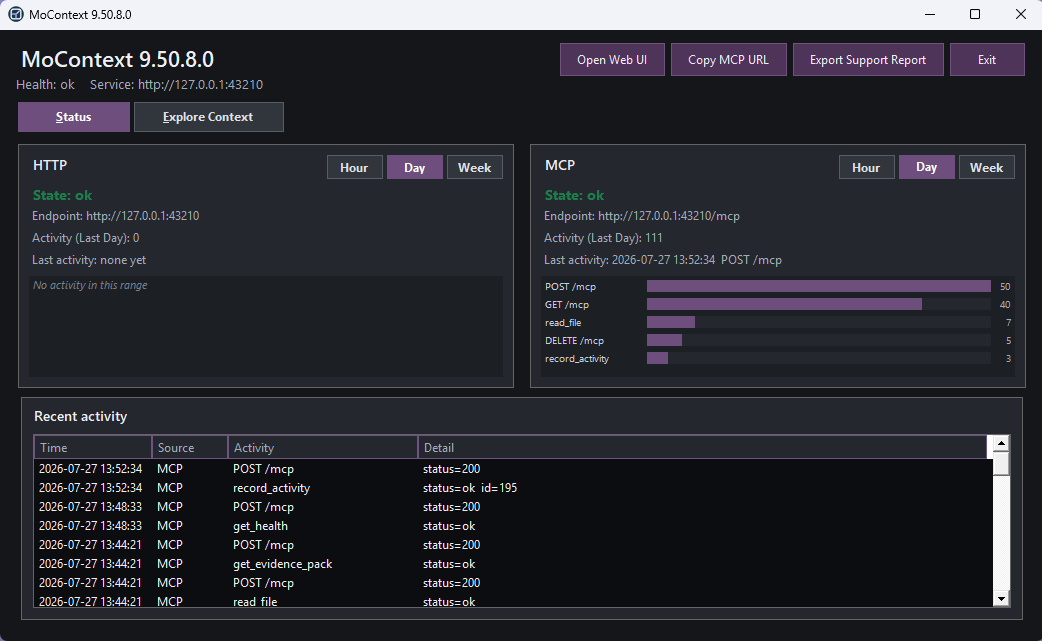
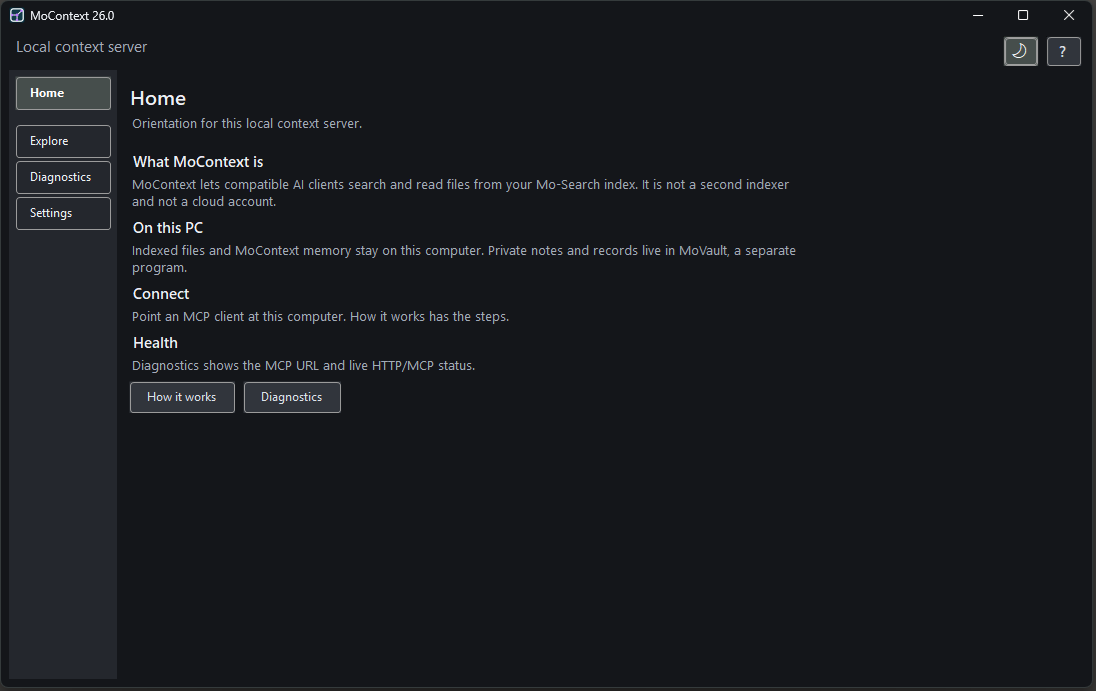
Publish Meauxsoft/mocontext documentation (Mo-Search 26.0)

diff --git a/README.md b/README.md
@@ -1,6 +1,6 @@
 # MoContext
 
-> Documentation baseline: Mo-Search/MoContext 9.50.8, the current public
+> Documentation baseline: Mo-Search/MoContext 26.0, the current public
 > release.
 
 **Give your AI agent full-text search over the files you index on your Windows
@@ -14,10 +14,10 @@ MCP tools so Codex, Claude Code, Cursor, Windsurf, VS Code, or another
 compatible MCP client can find and read indexed files — plus keep durable,
 human-editable session memory.
 
-![MoContext local service monitor in dark mode](media/mocontext-dark.png)
+![MoContext 26.0 local context server](media/mocontext-dark.png)
 
-The screenshot above is the current background-service monitor. A workflow GIF
-and the fuller user-mode interface are planned for a later release.
+The screenshot above is the MoContext 26.0 local context server. A workflow GIF
+is planned for a later release.
 
 ## Why
 
@@ -187,7 +187,9 @@ client/model stack that runs locally. See [PRIVACY.md](PRIVACY.md).
 The documentation in this repository is licensed [CC BY 4.0](LICENSE.md).
 Mo-Search and MoContext are proprietary software. MoContext is currently
 included with Mo-Search at no additional charge; see the current product page
-and [LICENSE.md](LICENSE.md) for availability and terms.
+and [LICENSE.md](LICENSE.md) for availability and terms. The Mo-Search license
+is $50 for 365 days. MoVault is coming soon and is not a download from this
+repository.
 
 ---
 

diff --git a/docs/ai-usage.md b/docs/ai-usage.md
@@ -182,6 +182,12 @@ Use `read_file`. One tool, three addressing forms:
 - **`path` + `start_line`/`end_line`** - an arbitrary line range.
 - **`path` + `line`** (with optional `before`/`after` context radii) - a focused window around one line. Best for follow-up drilling after evidence-pack identifies a region.
 
+For a direct path read, MoContext resolves the final filesystem target and accepts only a readable text file already represented by the MoSearch index. `AllowedRoots`, when configured, narrows that corpus; it never authorizes arbitrary files. Scoped `read_context_file` reads remain limited to the listed `root`, `memory`, and `sys` Markdown/text/HTML documents. Direct reads are capped at 8 MiB and 32,767 path characters.
+
+Search input is also bounded: query text is at most 4,096 characters / 64 searchable tokens, and each path, filename, or working-directory filter is at most 1,024 characters. Keep requests focused instead of sending bulk text.
+
+When the operator configures `AuthToken`, send `Authorization: Bearer <token>` for every non-public `/v1` route and for the full `/mcp` transport. `/v1/health`, `/v1/ui-version`, static UI assets, and MCP OAuth discovery remain public. Shutdown is disabled until a token is explicitly configured.
+
 ---
 
 ## Workflow 4 - Recording Continuity Notes

diff --git a/CHANGELOG.md b/CHANGELOG.md
@@ -1,8 +1,15 @@
-# MoContext release history
+# MoContext release history
 
-MoContext ships inside the Mo-Search installer and follows its release cycle, so these version numbers are Mo-Search versions. Only MoContext changes are listed; see the [Mo-Search changelog](https://github.com/Meauxsoft/mo-search/blob/main/CHANGELOG.md) for everything else. Documented through **9.50.8**.
+MoContext ships inside the Mo-Search installer and follows its release cycle, so these version numbers are Mo-Search versions. Only MoContext changes are listed; see the [Mo-Search changelog](https://github.com/Meauxsoft/mo-search/blob/main/CHANGELOG.md) for everything else. Documented through **26.0**.
 
 Generated from the Meauxsoft release history by `build-changelog.ps1`. Do not edit by hand.
+
+## 26.0 — 2026, Sep 21
+
+_A 40-day trial, a $50 license, and MoContext on this PC_
+
+- MoContext: Ships with Mo-Search as the local MCP server. Compatible AI clients search and read from the Mo-Search index on this PC; nothing is uploaded.
+- MoContext: Settings backup/restore, daily auto-backup, and a first-run choice to Restore or Start fresh. Default backup folder is Documents\MoBackups.
 
 ## 9.50.8 — 2026, Jul 17
 

diff --git a/LICENSE.md b/LICENSE.md
@@ -30,3 +30,18 @@ distributed with Mo-Search and is currently included at no additional charge.
 Their use is governed by the software license supplied with the product; see
 [meauxsoft.com](https://www.meauxsoft.com) for current availability, pricing,
 and terms.
+
+## Third-party notice
+
+The proprietary MoContext software includes the EFF Large Wordlist for
+Passphrases, created by the Electronic Frontier Foundation (EFF; Joseph
+Bonneau), used under the [Creative Commons Attribution 3.0 United States
+License (CC BY 3.0 US)](https://creativecommons.org/licenses/by/3.0/us/).
+
+Original source:
+
+- [EFF passphrase wordlists](https://www.eff.org/dice)
+- [EFF Large Wordlist](https://www.eff.org/files/2016/07/18/eff_large_wordlist.txt)
+
+This notice concerns excluded software material and does not change the
+Creative Commons license for the documentation in this repository.

diff --git a/media/README.md b/media/README.md
@@ -4,8 +4,8 @@ Screenshots used by the MoContext documentation in this repository.
 
 | File | Shows |
 |---|---|
-| `mocontext-dark.png` | MoContext background-service monitor, dark mode |
-| `mocontext-light.png` | MoContext background-service monitor, light mode |
+| `mocontext-dark.png` | MoContext 26.0 local context server, dark mode |
+| `mocontext-light.png` | MoContext 26.0 local context server, light mode |
 
 These images are part of the repository documentation and are covered by
 [LICENSE.md](../LICENSE.md).
